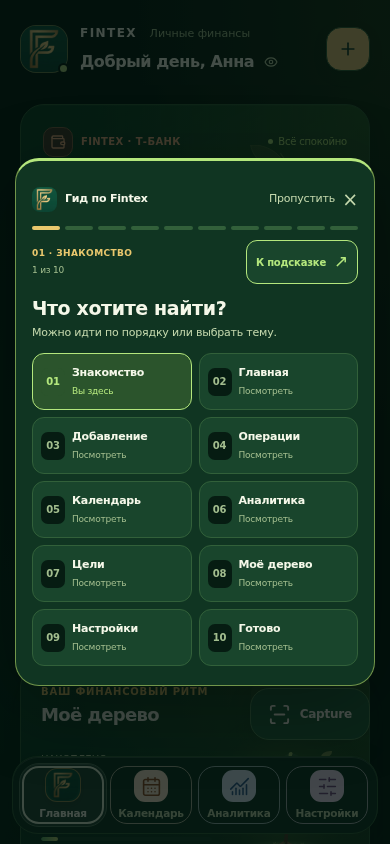
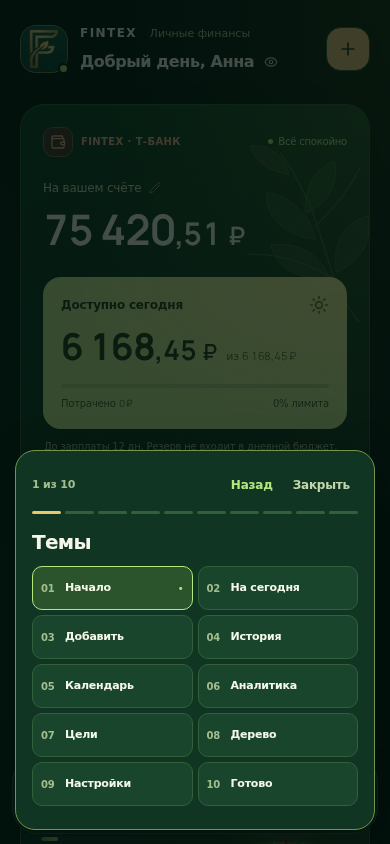
Simplify tour copy and keep cards and controls aligned on every step

diff --git a/app-tour.js b/app-tour.js
@@ -7,18 +7,17 @@
   const media = matchMedia('(prefers-reduced-motion: reduce)');
   const root = document.documentElement;
   const steps = [
-    {tab:'home',icon:'✦',chapter:'Знакомство',title:'Ваш маршрут по Fintex',text:'Короткий маршрут по вашим деньгам. Покажем нужное прямо в приложении — или выберите тему на карте.',tip:'Это безопасный просмотр: без пробных операций, списаний и изменений баланса.'},
-    {tab:'home',target:'#hero-daily-budget',icon:'◷',chapter:'Главная',title:'Сколько доступно сегодня',text:'Это ваш ориентир на день: сколько можно потратить, распределив свободные деньги до зарплаты.',tip:'«Доступно сегодня» — ориентир по вашим данным, а не новый баланс и не банковский лимит.'},
-    {tab:'home',target:'#capture-fab, #hdr-plus-btn',icon:'＋',chapter:'Добавление',title:'Запишите покупку удобным способом',text:'Capture читает фото чека или скриншот. А «+» в шапке — быстрый способ записать доход или расход вручную.',tip:'Распознанные данные можно проверить перед сохранением. Сейчас камера и выбор файлов не откроются.'},
-    {tab:'home',target:'.tx-feed-header',icon:'≡',chapter:'Операции',title:'Вся история — в одном месте',text:'Доходы и расходы собраны по дням. Ищите по магазину, категории или сумме; касание записи открывает детали.',tip:'Кнопка «⋯» рядом с суммой открывает действия. Удаление не происходит от обычного касания строки.'},
-    {tab:'calendar',target:'#cal-cells',icon:'▦',chapter:'Календарь',title:'Деньги на карте месяца',text:'Коснитесь даты, чтобы увидеть сводку дня. Здесь же — плановые платежи и дата зарплаты.',tip:'Из сводки дня можно перейти к операциям выбранной даты. Календарь не создаёт их повторно.'},
-    {tab:'analytics',target:'.ap-cashflow-heading, #view-analytics h2',icon:'↗',chapter:'Аналитика',title:'Поймите, куда уходят деньги',text:'Сравнивайте доходы и расходы, категории и динамику. Чем больше записанных операций, тем полезнее картина.',tip:'Разница доходов и расходов — результат за период, а не остаток на банковском счёте.'},
-    {tab:'home',target:'#savings-goals .sg-heading, #savings-goals',icon:'◎',chapter:'Цели',title:'У каждой мечты — своя цель',text:'У каждой цели — своя обложка, прогресс и пополнения. Плановый взнос поможет оценить, когда мечта станет ближе.',tip:'Отложенные деньги входят в ваш баланс, но исключены из доступных для трат. Автоматических списаний нет.'},
-    {tab:'home',target:'.ft-art-wrap',icon:'❧',chapter:'Моё дерево',title:'Маленький живой ориентир',text:'Дерево отражает соотношение доходов и расходов за 30 дней. После экскурсии потрясите крону: четыре быстрых тапа вызывают вихрь.',tip:'Один тап осыпает листья, снег или лепестки; жест вбок создаёт ветер. Это только игра: расходы не «наказывают» дерево.'},
-    {tab:'settings',target:'#settings-guide',icon:'⚙',chapter:'Настройки',title:'Все настройки — здесь',text:'Темы, светлый и тёмный режим, движение и данные — всё здесь. А эта карточка в любой момент вернёт к экскурсии.',tip:'Не нужно повторно вводить имя, баланс или настраивать приложение, чтобы вернуться к подсказкам.'},
-    {tab:'settings',icon:'✓',chapter:'Готово',title:'Теперь вы знаете дорогу',text:'Начните с одной покупки или первой цели. Не нужно помнить всё сразу: карта экскурсии поможет вернуться к любой теме.',tip:'Можно начать с одной покупки или создать первую цель. Если что-то забудете, экскурсия всегда под рукой в настройках.'}
+    {tab:'home',chapter:'Начало',title:'Покажем, что где',text:'Пройдёмся по основным кнопкам. Ничего не запишем и не изменим.'},
+    {tab:'home',target:'#hero-daily-budget',chapter:'На сегодня',title:'На сегодня',text:'Столько можно потратить сегодня, чтобы денег хватило до зарплаты.'},
+    {tab:'home',target:'#hdr-plus-btn, #capture-fab',chapter:'Добавить',title:'Добавить операцию',text:'Нажмите «+», чтобы записать доход или расход. Capture — для фото чека.'},
+    {tab:'home',target:'.tx-feed-header',chapter:'История',title:'История операций',text:'Здесь все доходы и расходы. Нажмите на запись, чтобы открыть детали.'},
+    {tab:'calendar',target:'#cal-cells',chapter:'Календарь',title:'Календарь',text:'Выберите день, чтобы посмотреть траты и платежи.'},
+    {tab:'analytics',target:'.ap-cashflow-heading, #view-analytics h2',chapter:'Аналитика',title:'Аналитика',text:'Здесь видно, на что уходят деньги и как меняются расходы.'},
+    {tab:'home',target:'#savings-goals .sg-heading, #savings-goals',chapter:'Цели',title:'Цели',text:'Создайте цель и откладывайте на неё деньги.'},
+    {tab:'home',target:'.ft-art-wrap',chapter:'Дерево',title:'Дерево',text:'Меняется от доходов и расходов. Тапните — посыплются листья, снег или лепестки.'},
+    {tab:'settings',target:'#settings-guide',chapter:'Настройки',title:'Настройки',text:'Здесь можно сменить тему и снова открыть экскурсию.'},
+    {tab:'settings',chapter:'Готово',title:'Всё готово',text:'Если что-то забудете, экскурсия есть в настройках.'}
   ];
-  const names = {home:'Главная',calendar:'Календарь',analytics:'Аналитика',settings:'Настройки'};
   let dialog, panel, focusBox, shade, index = 0, active = false, epoch = 0, mapOpen = false;
   const visited = new Set();
   let origin, overflow, effect, frame, observer, automatic = false;
@@ -40,7 +39,7 @@
   const visible = el => el && !!el.getClientRects().length && getComputedStyle(el).visibility !== 'hidden';
   function targetFor(step) {
     // Comma-separated selectors are ordered fallbacks, not document order:
-    // Capture before the header +, goal heading before the whole goal block.
+    // Prefer the + in the header and the compact goal heading.
     for (const selector of (step.target || '').split(',').filter(Boolean)) {
       const target = [...document.querySelectorAll(selector.trim())].find(visible);
       if (target) return target;
@@ -50,13 +49,14 @@
   function toggleMap(open, focus = true) {
     mapOpen = open;
     dialog.dataset.map = String(open);
-    dialog.setAttribute('aria-describedby',open?'tour-map-intro':'tour-text');
+    dialog.setAttribute('aria-labelledby',open?'tour-map-title':'tour-title');
+    if(open)dialog.removeAttribute('aria-describedby');else dialog.setAttribute('aria-describedby','tour-text');
     dialog.querySelector('#tour-map').hidden = !open;
     dialog.querySelector('.tour-content').hidden = open;
     dialog.querySelector('.tour-actions').hidden = open;
     const toggle = dialog.querySelector('#tour-map-toggle');
     toggle.setAttribute('aria-expanded',String(open));
-    toggle.querySelector('span').textContent = open ? 'К подсказке' : 'Карта маршрута';
+    toggle.querySelector('span').textContent = open ? 'Назад' : 'Темы';
     stopEffect();
     layout(!open);
     panel.scrollTop = 0;
@@ -72,27 +72,24 @@
     panel.style.maxHeight = `${Math.max(100,vh-28)}px`;
     const height = panel.offsetHeight;
     let rect = target?.getBoundingClientRect();
-    // Fixed controls (Capture/header) must not scroll the underlying document.
+    // The card and its controls stay in the same place on every step.
+    // Move the real app target into the space above it, never the card itself.
+    const top = Math.max(14,vh-height-14);
     let fixed = false;
     for (let el = target; el; el = el.parentElement) if (getComputedStyle(el).position === 'fixed') { fixed = true; break; }
     if (scroll && target && !fixed) {
-      const desired = Math.max(20,(vh-height-rect.height-32)/2);
+      const desired = Math.max(20,(top-rect.height)/2);
       window.scrollTo({top:Math.max(0,scrollY+rect.top-desired),behavior:'instant'});
       rect = target.getBoundingClientRect();
     }
-    let top = Math.max(14,(vh-height)/2), ring = false;
-    if (rect && rect.width > 0 && rect.height > 0 && rect.top >= 12 && rect.bottom <= vh-12) {
-      const below = vh-rect.bottom-24, above = rect.top-24;
-      if (below >= height || above >= height) {
-        top = below >= height ? rect.bottom+18 : rect.top-height-18;
-        const left = Math.max(10,rect.left-6), y = Math.max(10,rect.top-6);
-        Object.assign(focusBox.style,{left:`${left}px`,top:`${y}px`,width:`${Math.min(vw-10,rect.right+6)-left}px`,height:`${Math.min(vh-10,rect.bottom+6)-y}px`});
-        ring = true;
-      }
+    const ring = !!(rect && rect.width > 0 && rect.height > 0 && rect.top >= 12 && rect.bottom <= top-18 && rect.right > 10 && rect.left < vw-10);
+    if (ring) {
+      const left = Math.max(10,rect.left-6), y = Math.max(10,rect.top-6);
+      Object.assign(focusBox.style,{left:`${left}px`,top:`${y}px`,width:`${Math.min(vw-10,rect.right+6)-left}px`,height:`${rect.bottom+6-y}px`});
     }
     focusBox.hidden = !ring; shade.hidden = ring;
     panel.style.left = `${(vw-width)/2}px`;
-    panel.style.top = `${Math.max(14,Math.min(vh-height-14,top))}px`;
+    panel.style.top = `${top}px`;
     dialog.dataset.spotlight = String(ring);
   }
   function scheduleLayout() {
@@ -107,16 +104,11 @@
     index = Math.max(0,Math.min(steps.length-1,next));
     const step = steps[index];
     visited.add(index); checkpoint();
-    dialog.querySelector('#tour-more').open = false;
     stopEffect();
     dialog.dataset.step = String(index);
     dialog.querySelector('#tour-title').textContent = step.title;
     dialog.querySelector('#tour-text').textContent = step.text;
-    dialog.querySelector('#tour-tip').textContent = step.tip;
-    dialog.querySelector('.tour-symbol').textContent = step.icon;
-    dialog.querySelector('.tour-chapter').textContent = `${String(index+1).padStart(2,'0')} · ${step.chapter}`;
     dialog.querySelector('.tour-counter').textContent = `${index+1} из ${steps.length}`;
-    dialog.querySelector('.tour-location').textContent = `Раздел: ${names[step.tab]}`;
     const progress = dialog.querySelector('.tour-progress');
     progress.setAttribute('aria-valuenow',String(index+1));
     progress.setAttribute('aria-valuetext',`Шаг ${index+1} из ${steps.length}: ${step.chapter}`);
@@ -124,12 +116,10 @@
     dialog.querySelectorAll('[data-tour-jump]').forEach((button,i)=>{
       button.dataset.visited=String(visited.has(i));
       if(i===index)button.setAttribute('aria-current','step');else button.removeAttribute('aria-current');
-      button.querySelector('.tour-map-state').textContent=i===index?'Вы здесь':visited.has(i)?'Просмотрено':'Посмотреть';
+      button.querySelector('.tour-map-state').textContent=i===index?'•':visited.has(i)?'✓':'';
     });
-    dialog.querySelector('.tour-up-next').textContent = index < steps.length-1 ? `Далее · ${steps[index+1].chapter}` : 'Экскурсия всегда доступна в настройках';
-    dialog.querySelector('.tour-overview').hidden = index !== 0 && index !== steps.length-1;
     dialog.querySelector('#tour-back').disabled = index === 0;
-    dialog.querySelector('#tour-next').textContent = index === steps.length-1 ? (automatic?'Начать пользоваться':'Готово') : index === 0 ? 'Покажите мне →' : 'Дальше →';
+    dialog.querySelector('#tour-next').textContent = index === steps.length-1 ? 'Готово' : index === 0 ? 'Начать' : 'Далее';
     focusBox.hidden = true; shade.hidden = false;
     if (document.querySelector('.nav-tab[aria-current="page"]')?.dataset.nav !== step.tab) window.goTab(step.tab);
     // Wait for real section/module layout, not a fake loading timer.
@@ -142,9 +132,10 @@
     layout(true);
     dialog.dataset.ready = 'true';
     panel.scrollTop = 0;
+    dialog.querySelector('.tour-content').scrollTop = 0;
     dialog.querySelector('#tour-title').focus({preventScroll:true});
     if (moves()) {
-      effect = panel.animate([{opacity:.4,transform:'translateY(8px)'},{opacity:1,transform:'translateY(0)'}],{duration:200,easing:'ease-out'});
+      effect = dialog.querySelector('.tour-content').animate([{opacity:.4},{opacity:1}],{duration:200,easing:'ease-out'});
       effect.id = 'fintex-tour-step';
     }
   }
@@ -182,23 +173,17 @@
     dialog.setAttribute('aria-modal','true');
     dialog.setAttribute('aria-labelledby','tour-title'); dialog.setAttribute('aria-describedby','tour-text');
     dialog.innerHTML = `<div class="tour-shade" aria-hidden="true"></div><div class="tour-focus" hidden aria-hidden="true"></div>
-      <section class="tour-panel"><header class="tour-top"><span class="tour-brand"><img src="./assets/brand/fintex-logo.webp?v=49" width="25" height="25" alt=""/>Гид по Fintex</span><button type="button" id="tour-skip" aria-label="Пропустить экскурсию">Пропустить <span aria-hidden="true">×</span></button></header>
+      <section class="tour-panel"><header class="tour-top"><span class="tour-counter"></span><div class="tour-tools"><button type="button" id="tour-map-toggle" aria-controls="tour-map" aria-expanded="false"><span>Темы</span></button><button type="button" id="tour-skip" aria-label="Закрыть экскурсию">Закрыть</button></div></header>
       <div class="tour-progress" role="progressbar" aria-label="Ход экскурсии" aria-valuemin="1" aria-valuemax="${steps.length}" aria-valuenow="1">${steps.map(()=>'<i aria-hidden="true"></i>').join('')}</div>
-      <div class="tour-route"><div><span class="tour-chapter"></span><span class="tour-counter"></span></div><button type="button" id="tour-map-toggle" aria-controls="tour-map" aria-expanded="false"><span>Карта маршрута</span><b aria-hidden="true">↗</b></button></div>
-      <nav id="tour-map" aria-label="Темы экскурсии" hidden><h3>Что хотите найти?</h3><p id="tour-map-intro">Можно идти по порядку или выбрать тему.</p><div class="tour-map-grid">${steps.map((step,i)=>`<button type="button" data-tour-jump="${i}"><span class="tour-map-number" aria-hidden="true">${String(i+1).padStart(2,'0')}</span><span><strong>${step.chapter}</strong><small class="tour-map-state">Посмотреть</small></span></button>`).join('')}</div></nav>
-      <div class="tour-content"><div class="tour-heading"><span class="tour-symbol" aria-hidden="true"></span><h2 id="tour-title" tabindex="-1"></h2></div>
-      <p class="tour-location"></p><p id="tour-text"></p>
-      <div class="tour-overview" aria-label="Разделы приложения"><span>Главная</span><span>Календарь</span><span>Аналитика</span><span>Настройки</span></div>
-      <details id="tour-more"><summary>Полезно знать <span aria-hidden="true">+</span></summary><p id="tour-tip"></p></details>
-      <p class="tour-up-next"></p></div>
-      <footer class="tour-actions"><button type="button" id="tour-back">← Назад</button><button type="button" id="tour-next">Покажите мне →</button></footer></section>`;
+      <nav id="tour-map" aria-labelledby="tour-map-title" hidden><h3 id="tour-map-title">Темы</h3><div class="tour-map-grid">${steps.map((step,i)=>`<button type="button" data-tour-jump="${i}"><span class="tour-map-number" aria-hidden="true">${String(i+1).padStart(2,'0')}</span><strong>${step.chapter}</strong><small class="tour-map-state" aria-hidden="true"></small></button>`).join('')}</div></nav>
+      <div class="tour-content"><h2 id="tour-title" tabindex="-1"></h2><p id="tour-text"></p></div>
+      <footer class="tour-actions"><button type="button" id="tour-back">Назад</button><button type="button" id="tour-next">Начать</button></footer></section>`;
     document.body.append(dialog); panel=dialog.querySelector('.tour-panel'); focusBox=dialog.querySelector('.tour-focus'); shade=dialog.querySelector('.tour-shade');
     dialog.querySelector('#tour-map-toggle').addEventListener('click',()=>toggleMap(!mapOpen));
     dialog.querySelector('#tour-map').addEventListener('click',event=>{
       const button = event.target.closest('[data-tour-jump]');
       if (button) go(Number(button.dataset.tourJump));
     });
-    dialog.querySelector('#tour-more').addEventListener('toggle',()=>{if(active&&!mapOpen)layout(true);});
     dialog.querySelector('#tour-skip').addEventListener('click',()=>finish());
     dialog.querySelector('#tour-back').addEventListener('click',()=>go(index-1));
     dialog.querySelector('#tour-next').addEventListener('click',()=>index===steps.length-1?finish('complete'):go(index+1));

diff --git a/design-system.css b/design-system.css
@@ -2057,95 +2057,48 @@ body #tx-feed .tx-amount.journal-number:is([data-number-size=wide],[data-number-
   body #tx-feed .tx-row-open { row-gap: 7px; }
 }
 
-/* v67 · a read-only guided route through the actual app. Native dialog owns
- * focus/inert; the spotlight never makes underlying financial controls active. */
-body .tour-settings-card { display: grid; grid-template-columns: 36px minmax(0,1fr); gap: 10px; padding: 17px; }
-body .tour-settings-mark { display: grid; place-items: center; width: 34px; height: 34px; border-radius: 11px; background: var(--accent-soft); color: var(--accent); font-size: 23px; }
-body .tour-settings-kicker { color: var(--gold); text-transform: uppercase; letter-spacing: .07em; font-size: 8px; font-weight: 700; }
-body .tour-settings-card h3 { color: var(--text-primary); font-size: 16px; font-weight: 750; margin: 4px 0; }
-body .tour-settings-card p { color: var(--text-secondary); font-size: 11px; line-height: 1.6; }
-body #tour-replay { grid-column: 1 / -1; display: flex; justify-content: space-between; align-items: center; gap: 8px; padding: 11px 13px; min-height: 44px; border: 1px solid var(--border-active); border-radius: 12px; background: var(--accent-soft); color: var(--accent); font: inherit; font-size: 12px; font-weight: 700; }
+/* v69 · one short explanation, aligned controls and a stationary card. */
+body .tour-settings-card { display: grid; grid-template-columns: 34px minmax(0,1fr); gap: 12px; padding: 16px; }
+body .tour-settings-mark { display: grid; place-items: center; width: 34px; height: 34px; border-radius: 10px; background: var(--accent-soft); color: var(--accent); font-size: 22px; }
+body .tour-settings-card h3 { color: var(--text-primary); font-size: 15px; font-weight: 700; margin: 0 0 4px; }
+body .tour-settings-card p { color: var(--text-secondary); font-size: 12px; line-height: 1.5; }
+body #tour-replay { grid-column: 1 / -1; display: flex; justify-content: space-between; align-items: center; min-height: 44px; padding: 10px 12px; border: 1px solid var(--border-active); border-radius: 12px; background: var(--accent-soft); color: var(--accent); font: inherit; font-size: 12px; font-weight: 650; }
 body #fintex-tour { position: fixed; inset: 0; margin: 0; padding: 0; width: 100%; height: 100dvh; max-width: none; max-height: none; overflow: hidden; border: 0; background: transparent; color: var(--text-primary); }
 body #fintex-tour[open] { display: block; }
 body #fintex-tour::backdrop { background: transparent; }
 body #fintex-tour .tour-shade { position: fixed; inset: 0; background: rgba(1,14,11,.73); }
-body #fintex-tour .tour-focus { position: fixed; border: 2px solid var(--accent); border-radius: 17px; box-shadow: 0 0 0 200vmax rgba(1,14,11,.73),0 0 0 5px var(--accent-soft); pointer-events: none; }
+body #fintex-tour .tour-focus { position: fixed; border: 2px solid var(--accent); border-radius: 16px; box-shadow: 0 0 0 200vmax rgba(1,14,11,.73); pointer-events: none; }
 body #fintex-tour [hidden] { display: none !important; }
-body #fintex-tour .tour-panel { position: fixed; left: 14px; top: 14px; width: min(360px,calc(100% - 28px)); max-height: calc(100dvh - 28px); overflow-y: auto; overscroll-behavior: contain; padding: 18px; box-sizing: border-box; border: 1px solid var(--border-active); border-radius: 23px; background: var(--surface-1); color: var(--text-primary); box-shadow: 0 20px 80px rgba(0,0,0,.28); }
+body #fintex-tour .tour-panel { position: fixed; left: 14px; top: 14px; display: flex; flex-direction: column; width: min(360px,calc(100% - 28px)); height: 280px; max-height: calc(100dvh - 28px); padding: 12px 16px 16px; box-sizing: border-box; border: 1px solid var(--border-active); border-radius: 20px; background: var(--surface-1); color: var(--text-primary); box-shadow: 0 14px 48px rgba(0,0,0,.25); }
+body #fintex-tour[data-map=true] .tour-panel { height: 380px; }
 body #fintex-tour button { font-family: inherit; cursor: pointer; touch-action: manipulation; }
-body #fintex-tour button:focus-visible, body #tour-replay:focus-visible { outline: 2px solid var(--accent); outline-offset: 3px; }
-body #fintex-tour .tour-top { display: flex; align-items: center; justify-content: space-between; gap: 8px; }
-body #fintex-tour .tour-brand { display: inline-flex; align-items: center; gap: 8px; font-size: 11px; font-weight: 700; }
-body #fintex-tour .tour-brand img { border-radius: 8px; }
-body #tour-skip { min-height: 44px; padding: 5px 0 5px 7px; color: var(--text-secondary); font-size: 11px; border: 0; background: transparent; }
-body #tour-skip > span { margin-left: 4px; font-size: 19px; vertical-align: middle; }
-body #fintex-tour .tour-progress { display: flex; gap: 4px; margin: 7px 0 12px; }
+body #fintex-tour button:focus-visible, body #tour-replay:focus-visible { outline: 2px solid var(--accent); outline-offset: -3px; }
+body #fintex-tour .tour-top { display: flex; flex-shrink: 0; align-items: center; justify-content: space-between; gap: 12px; min-height: 44px; }
+body #fintex-tour .tour-counter { color: var(--text-muted); font-size: 11px; font-weight: 600; font-variant-numeric: tabular-nums; }
+body #fintex-tour .tour-tools { display: flex; align-items: center; gap: 4px; }
+body #fintex-tour .tour-tools button { min-height: 44px; padding: 0 8px; border: 0; border-radius: 8px; background: transparent; font-size: 12px; font-weight: 600; }
+body #tour-map-toggle { color: var(--accent); }
+body #tour-skip { color: var(--text-secondary); }
+body #fintex-tour .tour-progress { display: flex; flex-shrink: 0; gap: 4px; margin: 4px 0 16px; }
 body #fintex-tour .tour-progress i { flex: 1; height: 3px; border-radius: 3px; background: var(--border-subtle); }
 body #fintex-tour .tour-progress i[data-done=true] { background: var(--accent); }
-body #fintex-tour .tour-route { display: flex; align-items: center; justify-content: space-between; gap: 8px; font-size: 9px; color: var(--text-muted); }
-body #fintex-tour .tour-chapter { color: var(--gold); font-weight: 700; letter-spacing: .045em; text-transform: uppercase; }
-body #fintex-tour .tour-heading { display: grid; grid-template-columns: 35px minmax(0,1fr); gap: 10px; align-items: center; margin-top: 14px; }
-body #fintex-tour .tour-symbol { display: grid; place-items: center; width: 35px; height: 40px; border-radius: 12px; color: var(--accent); background: var(--accent-soft); font-size: 27px; }
-body #tour-title { font-size: 21px; line-height: 1.22; letter-spacing: -.025em; font-weight: 750; outline: none; }
-body #fintex-tour .tour-location { margin-top: 9px; font-size: 10px; font-weight: 600; color: var(--text-muted); }
-body #tour-text { font-size: 13px; line-height: 1.65; color: var(--text-primary); margin-top: 10px; }
-body #tour-tip { font-size: 11px; line-height: 1.6; color: var(--text-secondary); border-left: 2px solid var(--gold); padding: 0 0 0 10px; margin-top: 13px; }
-body #fintex-tour .tour-actions { display: flex; gap: 9px; padding-top: 15px; }
-body #fintex-tour .tour-actions button { min-height: 44px; border-radius: 12px; padding: 10px 13px; font-size: 12px; font-weight: 700; }
+body #fintex-tour .tour-progress i[data-current=true] { background: var(--gold); }
+body #fintex-tour .tour-content { flex: 1; min-height: 0; overflow-y: auto; overscroll-behavior: contain; }
+body #tour-title { font-size: 21px; line-height: 1.3; letter-spacing: -.02em; font-weight: 700; outline: none; }
+body #tour-text { margin-top: 8px; font-size: 14px; line-height: 1.6; color: var(--text-secondary); }
+body #fintex-tour .tour-actions { display: grid; flex-shrink: 0; grid-template-columns: repeat(2,minmax(0,1fr)); gap: 10px; padding-top: 12px; }
+body #fintex-tour .tour-actions button { min-height: 44px; border-radius: 12px; padding: 10px 12px; font-size: 13px; font-weight: 650; }
 body #tour-back { border: 1px solid var(--border-subtle); background: var(--surface-2); color: var(--text-secondary); }
 body #tour-back:disabled { opacity: .4; cursor: default; }
-body #tour-next { flex: 1; border: 1px solid var(--border-active); background: var(--accent); color: var(--bg-canvas); }
-html.fintex-tour-open { scroll-behavior: auto !important; }
-@media(max-height:500px) {
-  body #fintex-tour .tour-panel { padding: 12px 16px; border-radius: 18px; }
-  body #fintex-tour .tour-heading { margin-top: 9px; }
-  body #tour-title { font-size: 18px; }
-  body #fintex-tour .tour-actions { position: sticky; bottom: -12px; padding-block: 10px 12px; background: var(--surface-1); }
-}
-
-/* v68 · compact field guide: a chapter map, optional detail and more app in view. */
-body #fintex-tour .tour-panel { padding: 16px; border-radius: 24px; border-top: 3px solid var(--accent); }
-body #fintex-tour .tour-heading { grid-template-columns: 32px minmax(0,1fr); gap: 9px; margin-top: 11px; }
-body #fintex-tour .tour-symbol { width: 32px; height: 36px; font-size: 24px; }
-body #tour-title { font-size: 20px; }
-body #fintex-tour .tour-location { display: none; }
-body #tour-text { font-size: 13px; line-height: 1.6; margin-top: 11px; }
-body #fintex-tour .tour-progress { gap: 5px; margin: 5px 0 10px; }
-body #fintex-tour .tour-progress i { height: 4px; }
-body #fintex-tour .tour-progress i[data-current=true] { background: var(--gold); }
-body #tour-map-toggle { display: flex; align-items: center; justify-content: space-between; gap: 8px; width: auto; min-height: 44px; margin: 0; padding: 0 9px; border: 1px solid var(--border-subtle); border-radius: 11px; background: var(--surface-2); color: var(--text-secondary); font-size: 10px; font-weight: 650; text-align: left; }
-body #tour-map-toggle b { color: var(--accent); font-size: 17px; font-weight: 500; }
-body #tour-map-toggle[aria-expanded=true] { border-color: var(--accent); color: var(--accent); }
-body #fintex-tour .tour-overview { display: flex; flex-wrap: wrap; gap: 5px; margin-top: 13px; }
-body #fintex-tour .tour-overview span { padding: 5px 8px; border-radius: 7px; background: var(--accent-soft); color: var(--accent); font-size: 9px; font-weight: 650; }
-body #tour-more { margin-top: 9px; border-block: 1px solid var(--border-subtle); }
-body #tour-more summary { display: flex; align-items: center; justify-content: space-between; gap: 8px; min-height: 44px; list-style: none; cursor: pointer; color: var(--text-secondary); font-size: 11px; font-weight: 600; }
-body #tour-more summary::-webkit-details-marker { display: none; }
-body #tour-more summary span { color: var(--gold); font-size: 17px; }
-body #tour-more[open] summary span { transform: rotate(45deg); }
-body #tour-more summary:focus-visible { outline: 2px solid var(--accent); outline-offset: -2px; border-radius: 6px; }
-body #tour-tip { margin: 0 0 12px; }
-body #fintex-tour .tour-up-next { margin-top: 10px; color: var(--text-muted); font-size: 9px; line-height: 1.5; }
-body #fintex-tour .tour-actions { padding-top: 12px; }
-body #tour-map { margin-top: 13px; }
-body #tour-map h3 { font-size: 19px; font-weight: 750; letter-spacing: -.02em; }
-body #tour-map > p { margin: 5px 0 12px; color: var(--text-secondary); font-size: 11px; line-height: 1.5; }
-body #fintex-tour .tour-map-grid { display: grid; grid-template-columns: repeat(2,minmax(0,1fr)); gap: 7px; padding-bottom: 3px; }
-body #fintex-tour [data-tour-jump] { display: flex; align-items: center; gap: 7px; min-width: 0; min-height: 57px; padding: 8px; border: 1px solid var(--border-subtle); border-radius: 12px; background: var(--surface-2); color: var(--text-primary); text-align: left; }
-body #fintex-tour [data-tour-jump] strong { display: block; font-size: 11px; font-weight: 700; overflow-wrap: anywhere; }
-body #fintex-tour .tour-map-state { display: block; font-size: 9px; margin-top: 3px; color: var(--text-muted); }
-body #fintex-tour .tour-map-number { display: grid; place-items: center; flex-shrink: 0; width: 24px; height: 28px; color: var(--text-muted); font-size: 10px; font-weight: 700; border-radius: 7px; background: var(--bg-canvas); font-variant-numeric: tabular-nums; }
-body #fintex-tour [data-tour-jump][data-visited=true] .tour-map-number { background: var(--accent-soft); color: var(--accent); }
+body #tour-next { border: 1px solid var(--border-active); background: var(--accent); color: var(--bg-canvas); }
+body #tour-map { flex: 1; min-height: 0; overflow-y: auto; overscroll-behavior: contain; }
+body #tour-map h3 { font-size: 20px; font-weight: 700; margin-bottom: 12px; }
+body #fintex-tour .tour-map-grid { display: grid; grid-template-columns: repeat(2,minmax(0,1fr)); gap: 5px; }
+body #fintex-tour [data-tour-jump] { display: flex; align-items: center; gap: 6px; min-width: 0; min-height: 44px; padding: 8px; border: 1px solid var(--border-subtle); border-radius: 10px; background: var(--surface-2); color: var(--text-primary); text-align: left; }
+body #fintex-tour [data-tour-jump] strong { flex: 1; font-size: 11px; font-weight: 600; }
+body #fintex-tour .tour-map-state { color: var(--accent); font-size: 10px; }
+body #fintex-tour .tour-map-number { flex-shrink: 0; width: 18px; color: var(--text-muted); font-size: 10px; font-weight: 600; font-variant-numeric: tabular-nums; }
 body #fintex-tour [data-tour-jump][aria-current=step] { border-color: var(--accent); background: var(--accent-soft); }
-body #fintex-tour [data-tour-jump][aria-current=step] .tour-map-state { color: var(--accent); }
-@media(max-height:500px) {
-  body #fintex-tour .tour-panel { padding: 10px 14px; border-radius: 18px; }
-  body #tour-title { font-size: 18px; }
-  body #fintex-tour .tour-actions { bottom: -10px; }
-}
-
-body #fintex-tour .tour-route > div { display: grid; gap: 4px; }
+html.fintex-tour-open { scroll-behavior: auto !important; }
 html.no-motion body #fintex-tour * { transition: none !important; }
-@media(prefers-reduced-motion:reduce) {
-  body #fintex-tour * { transition: none !important; }
-}
+@media(prefers-reduced-motion:reduce) { body #fintex-tour * { transition: none !important; } }

diff --git a/index.html b/index.html
@@ -18,7 +18,7 @@
   <script src="./appearance.js?v=62"></script>
   <script src="./cloud.js?v=39"></script>
   <link rel="stylesheet" href="./styles.css?v=22" />
-  <link rel="stylesheet" href="./design-system.css?v=68" />
+  <link rel="stylesheet" href="./design-system.css?v=69" />
 </head>
 <body class="max-w-md mx-auto min-h-screen relative select-none">
 
@@ -892,8 +892,8 @@
         </div>
       <section id="settings-guide" class="tour-settings-card card-surface" aria-labelledby="tour-settings-title">
         <span class="tour-settings-mark" aria-hidden="true">↗</span>
-        <div><span class="tour-settings-kicker">Ваш гид по приложению</span><h3 id="tour-settings-title">Что где в Fintex</h3><p>Пройдите короткий маршрут или выберите нужную тему на карте экскурсии.</p></div>
-        <button type="button" id="tour-replay" onclick="FintexTour.start()">Пройти экскурсию заново <span aria-hidden="true">→</span></button>
+        <div><h3 id="tour-settings-title">Что где в Fintex</h3><p>Коротко покажем основные кнопки.</p></div>
+        <button type="button" id="tour-replay" onclick="FintexTour.start()">Повторить экскурсию <span aria-hidden="true">→</span></button>
       </section>
       <p class="section-caption">Под себя</p>
       <details id="settings-work-time" class="section-group card-surface">
@@ -1904,6 +1904,6 @@
   <script src="./capture.js?v=68"></script>
   <script src="./behavior-model.js?v=44"></script>
   <script src="./behavior.js?v=54"></script>
-  <script src="./app-tour.js?v=68"></script>
+  <script src="./app-tour.js?v=69"></script>
 </body>
 </html>

diff --git a/README.md b/README.md
@@ -398,3 +398,11 @@ npm run test:ui
 - Исправлен порядок резервных селекторов: подсвечивается именно заголовок целей, а не весь большой блок. Capture остаётся видимым на главной во время экскурсии (по-прежнему неактивным благодаря нативному modal dialog), прочие модальные окна скрывают его как прежде. Фиксированные элементы и элементы внутри фиксированной шапки больше не прокручивают документ.
 
 `tests/app-tour.spec.cjs` теперь содержит 16 проверок: добавлены карта/прямые переходы, точный checkpoint и неверные значения, отказ записи, раскрываемые детали, геометрия целевых элементов и карта на 320px/коротком горизонтальном экране во всех палитрах. Превью обновлены: `docs/tour-balance-light-preview.png`, `docs/tour-tree-dark-preview.png`; новая карта — `docs/tour-map-dark-preview.png`.
+
+### Простая и ровная экскурсия — v69
+
+По замечанию о перегруженном тексте: убраны длинные пояснения, «Полезно знать», декоративные символы, дублирующие подписи разделов и анонс следующего шага. На шаге теперь один короткий заголовок и 1–2 простые фразы (не более 85 символов основного текста). Например: **«Цели» — «Создайте цель и откладывайте на неё деньги»**. Карта называется **«Темы»**, без повторяющегося «Посмотреть» в каждой ячейке.
+
+Карточка фиксированной высоты стоит внизу на одном месте на всех десяти шагах; одинаковые кнопки «Назад» и «Далее» не сдвигаются от длины текста. Прокручивается приложение над карточкой, а не сама подсказка. Анимация меняет только прозрачность текста. Если подсветка не помещается сверху, она скрывается без перемещения карточки. Шаг добавления выделяет «+» в шапке, чтобы не перекрывать нижнюю кнопку Capture. Слишком крупный текст можно прокрутить внутри пояснения, кнопки остаются доступны.
+
+Карта тем, точное продолжение первого маршрута, повтор из настроек, клавиатура, темы и отсутствие изменений финансовых данных сохранены. В `tests/app-tour.spec.cjs` добавлены проверки постоянных координат карточки/кнопок на всех шагах при 320/390px и в горизонтальном экране, ограничений длины текста и увеличенного шрифта. Старые слои CSS экскурсии заменены единым набором правил.
